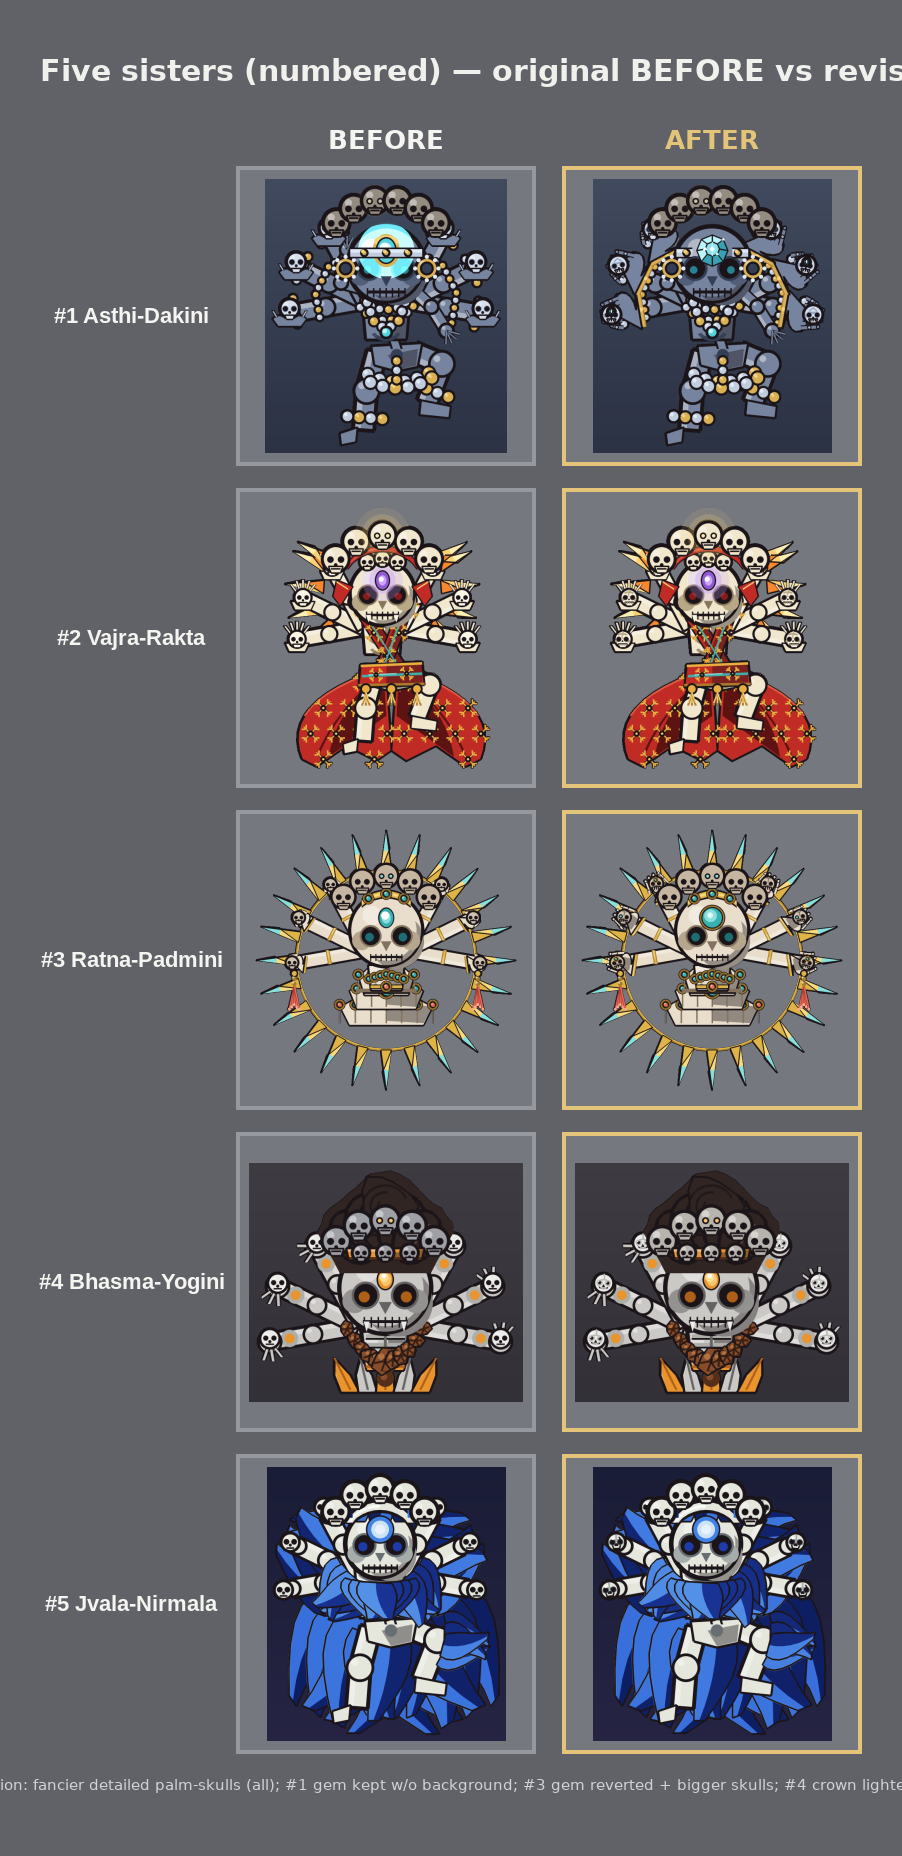
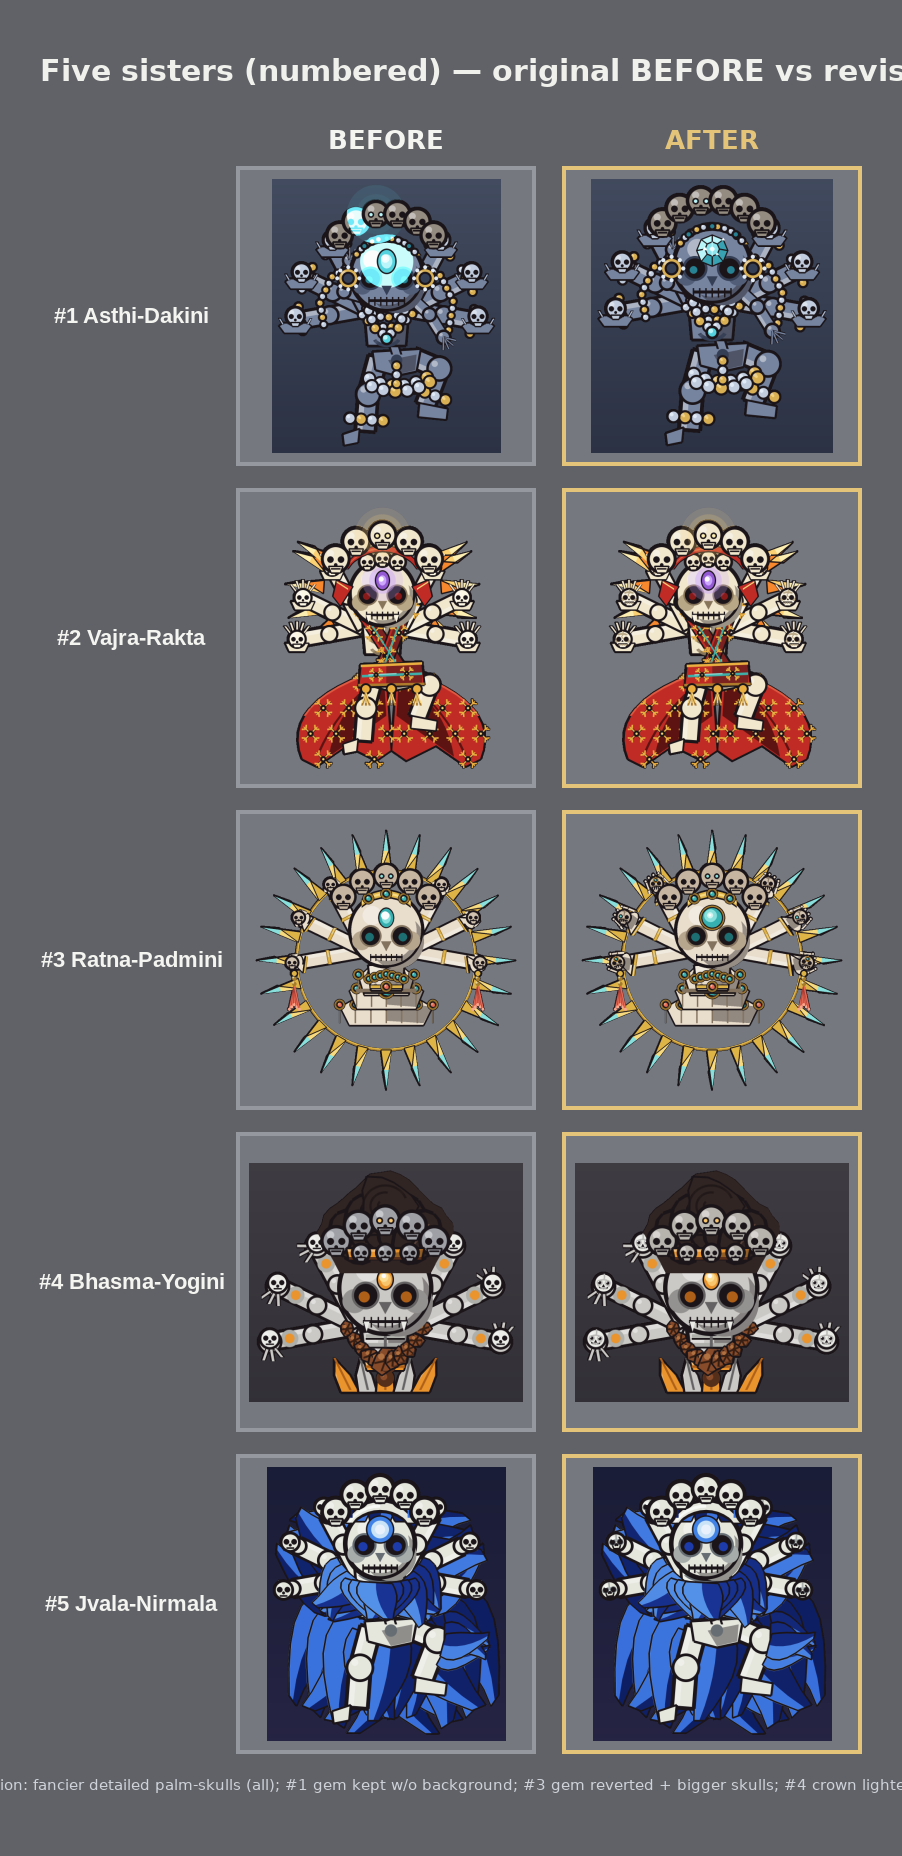
skybit: refresh before/after #1 row (round-1 original -> round 7) after asthi rebuild
Claude-Session: https://claude.ai/code/session_01JdHJ2TbdY51oSPSCYSsaHZ

diff --git a/docs/skybit_devil/batch2/gem_skull_redesign/build_before_after.py b/docs/skybit_devil/batch2/gem_skull_redesign/build_before_after.py
@@ -47,11 +47,11 @@ ROWS = [
     {
         "name": "#1 Asthi-Dakini",
         "before": {
-            "file": "docs/skybit_devil/batch2/mukha_citipati_court/asthi_dakini/round_3_hero.png",
+            "file": "docs/skybit_devil/batch2/mukha_citipati_court/asthi_dakini/round_1_hero.png",
             "mode": "gradient",
         },
         "after": {
-            "file": "docs/skybit_devil/batch2/mukha_citipati_court/asthi_dakini/round_6_hero.png",
+            "file": "docs/skybit_devil/batch2/mukha_citipati_court/asthi_dakini/round_7_hero.png",
             "mode": "gradient",
         },
     },
